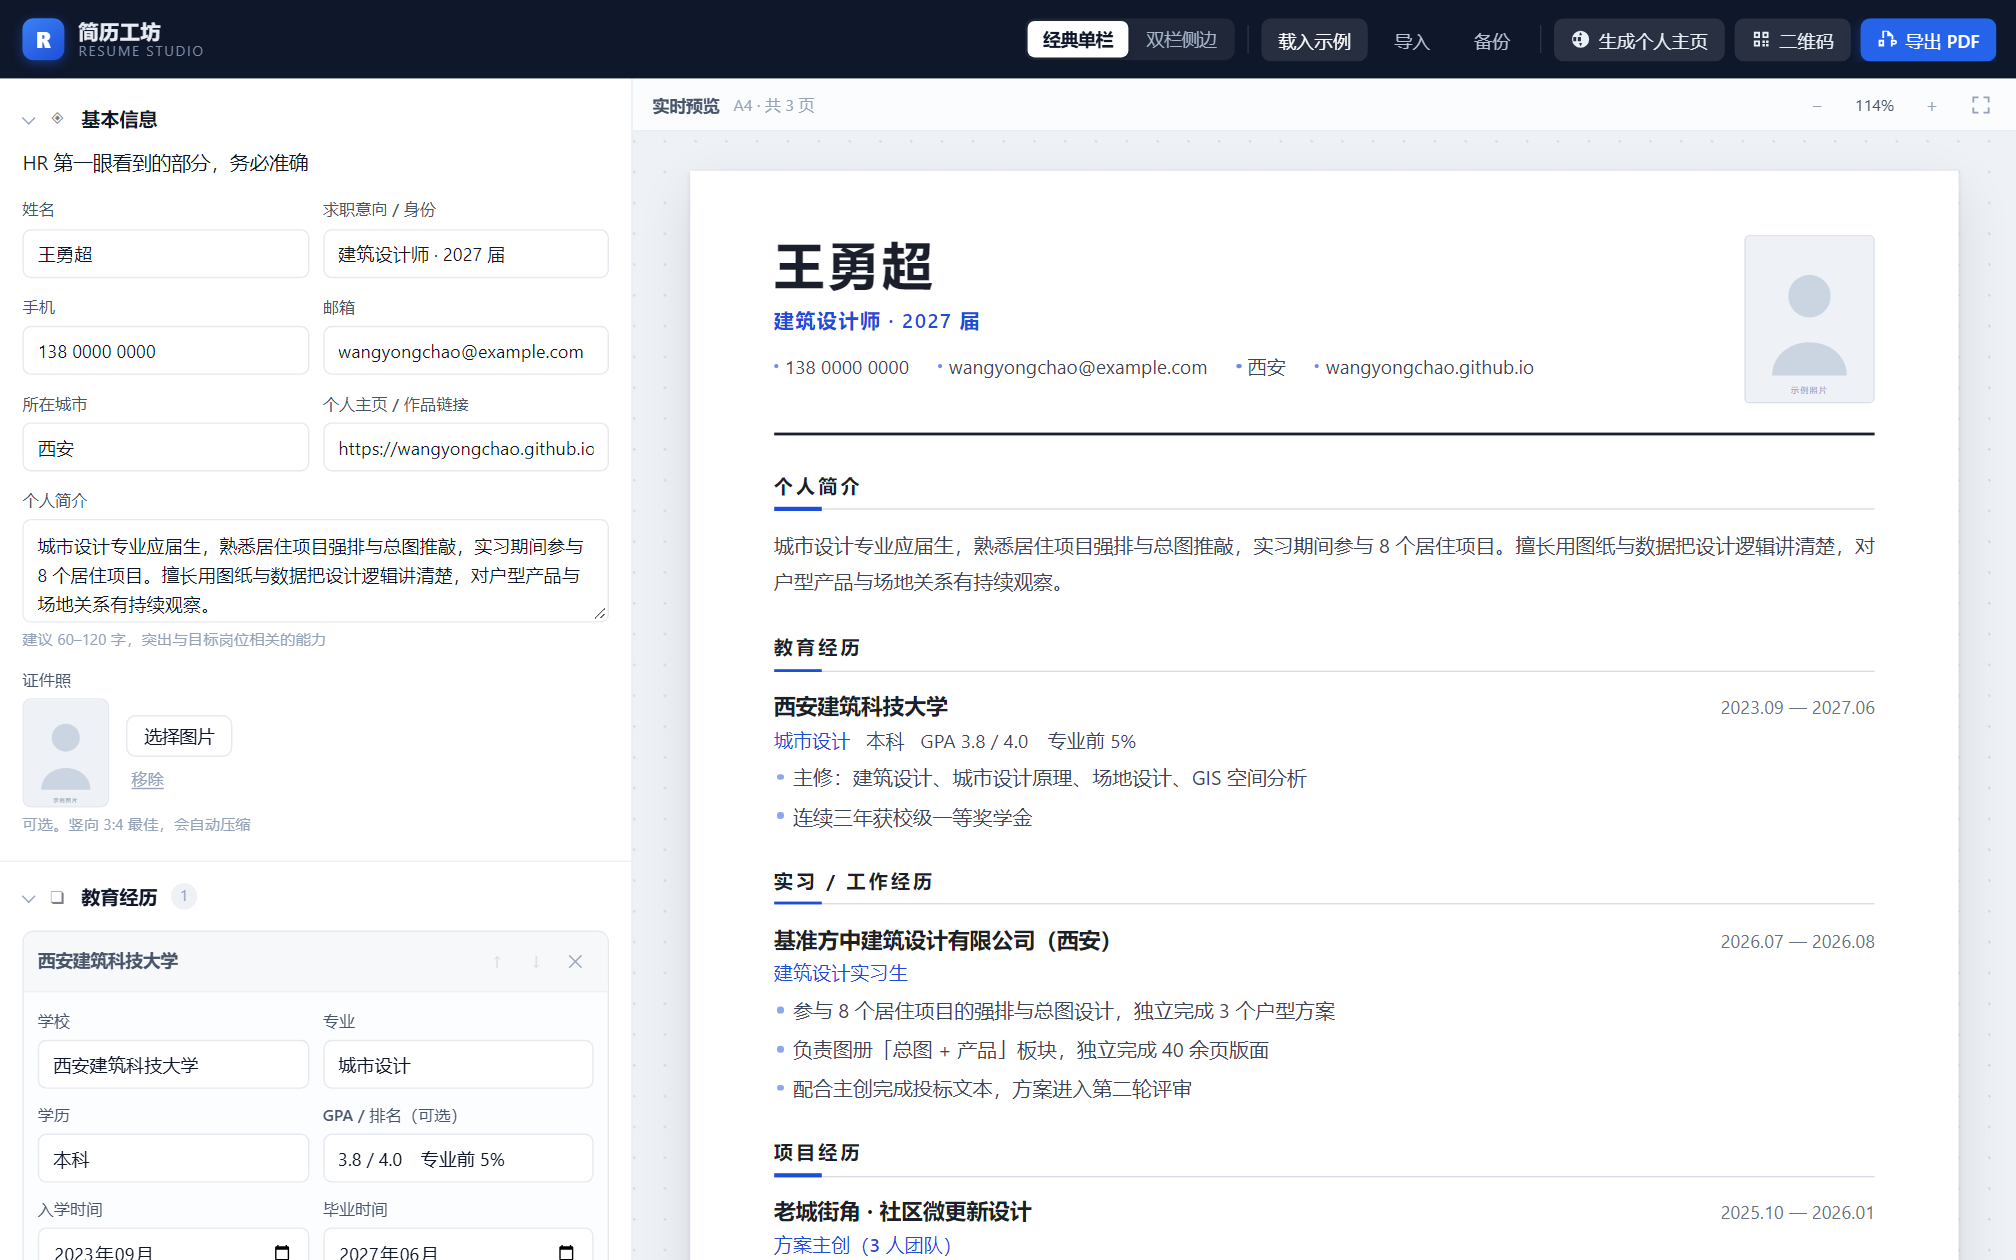
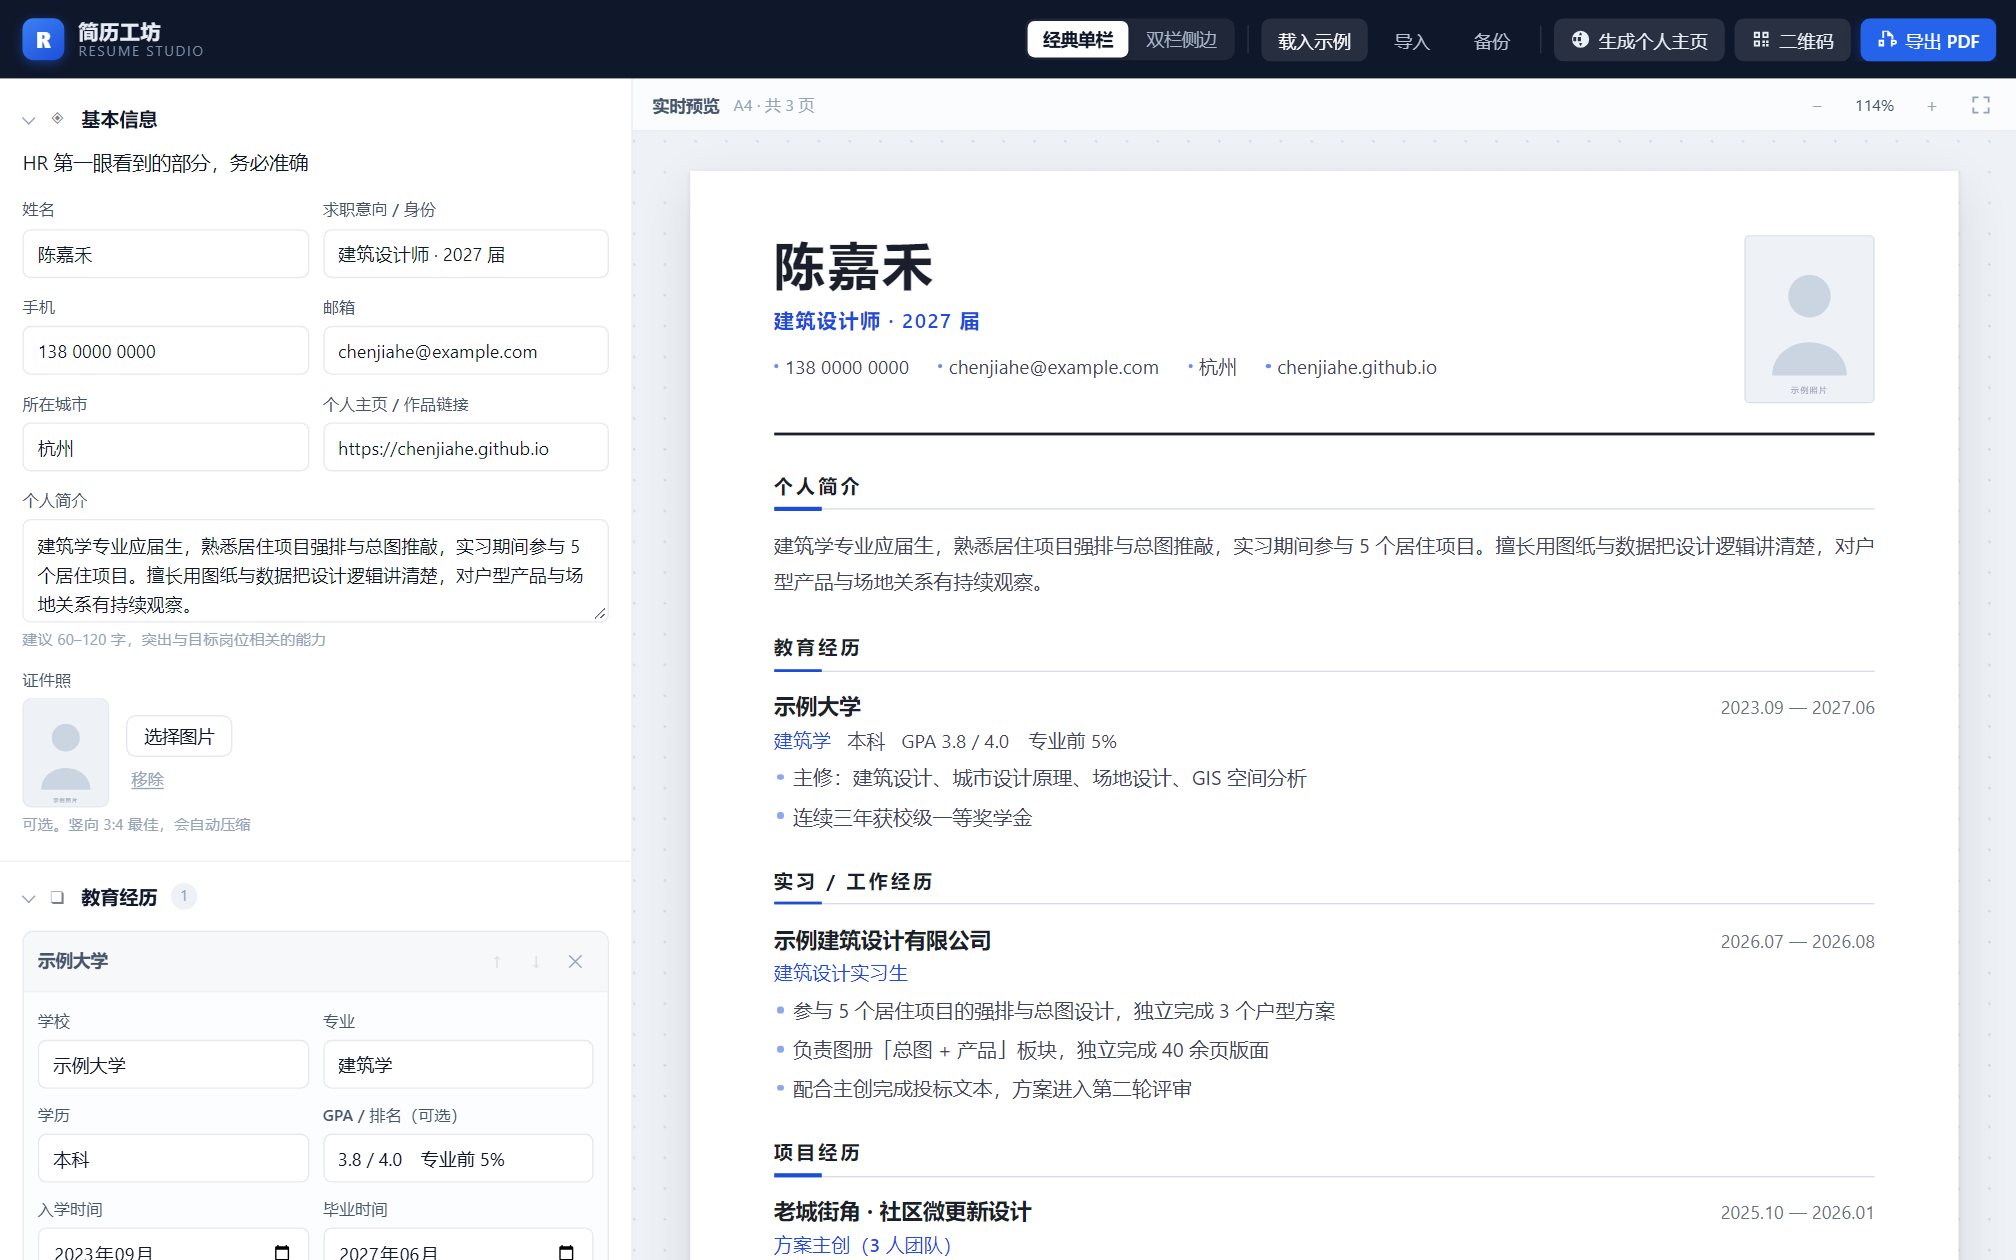
chore: 移除示例中的真实个人信息
- 表单占位文字改为中性示例（张三 / 城市名 / 学校全称 / 公司全称）
- 「载入示例」改为虚构人物：陈嘉禾、示例大学、示例建筑设计有限公司
- 作品名、奖项颁发单位同步脱敏，避免暴露真实经历与在职项目名
- LICENSE 版权署名改为 GitHub 账号
- 重新生成 README 预览图（docs/*.png）

diff --git a/assets/js/schema.js b/assets/js/schema.js
@@ -19,17 +19,17 @@
       title: '基本信息',
       desc: 'HR 第一眼看到的部分，务必准确',
       fields: [
-        { key: 'name', label: '姓名', type: 'text', ph: '王勇超', half: true },
-        { key: 'jobTitle', label: '求职意向 / 身份', type: 'text', ph: '建筑设计师 · 2027 届', half: true },
+        { key: 'name', label: '姓名', type: 'text', ph: '张三', half: true },
+        { key: 'jobTitle', label: '求职意向 / 身份', type: 'text', ph: '应聘岗位 · 2027 届', half: true },
         { key: 'phone', label: '手机', type: 'text', ph: '138 0000 0000', half: true },
         { key: 'email', label: '邮箱', type: 'text', ph: 'you@example.com', half: true },
-        { key: 'city', label: '所在城市', type: 'text', ph: '西安', half: true },
+        { key: 'city', label: '所在城市', type: 'text', ph: '城市名', half: true },
         { key: 'website', label: '个人主页 / 作品链接', type: 'text', ph: 'https://your-name.github.io', half: true },
         {
           key: 'summary',
           label: '个人简介',
           type: 'textarea',
-          ph: '一句话讲清你是谁、擅长什么、想做什么。例如：\n城市设计专业应届生，熟悉总图强排与户型推敲，参与 8 个居住项目，擅长用图纸讲清设计逻辑。',
+          ph: '一句话讲清你是谁、擅长什么、想做什么。例如：\nXX 专业应届生，做过 X 个项目，擅长用 X 解决 X 问题，成果是 X。',
           hint: '建议 60–120 字，突出与目标岗位相关的能力'
         },
         { key: 'photo', label: '证件照', type: 'photo', hint: '可选。竖向 3:4 最佳，会自动压缩' }
@@ -44,8 +44,8 @@
       itemLabel: it => it.school || '新的教育经历',
       itemSub: it => it.major,
       fields: [
-        { key: 'school', label: '学校', type: 'text', ph: '西安建筑科技大学', half: true },
-        { key: 'major', label: '专业', type: 'text', ph: '城市设计', half: true },
+        { key: 'school', label: '学校', type: 'text', ph: '学校全称', half: true },
+        { key: 'major', label: '专业', type: 'text', ph: '专业名称', half: true },
         { key: 'degree', label: '学历', type: 'text', ph: '本科', half: true },
         { key: 'gpa', label: 'GPA / 排名（可选）', type: 'text', ph: '3.8 / 4.0　专业前 5%', half: true },
         { key: 'start', label: '入学时间', type: 'month', half: true },
@@ -64,7 +64,7 @@
       itemLabel: it => it.company || '新的实习经历',
       itemSub: it => it.role,
       fields: [
-        { key: 'company', label: '公司 / 单位', type: 'text', ph: '基准方中建筑设计有限公司', half: true },
+        { key: 'company', label: '公司 / 单位', type: 'text', ph: '公司全称', half: true },
         { key: 'role', label: '岗位', type: 'text', ph: '建筑设计实习生', half: true },
         { key: 'start', label: '开始时间', type: 'month', half: true },
         { key: 'end', label: '结束时间', type: 'month', half: true },
@@ -73,7 +73,7 @@
           label: '工作内容与成果',
           type: 'textarea',
           tall: true,
-          ph: '每行一条，尽量写清「做了什么 + 做出什么结果」：\n参与 8 个居住项目的强排与总图，独立完成 3 个户型方案\n协助完成 XX 项目投标文本，方案中标',
+          ph: '每行一条，尽量写清「做了什么 + 做出什么结果」：\n负责 XX 模块，独立完成 XX 份交付物\n协助完成 XX 项目，成果是 XX',
           hint: '用数字说话：数量、排名、效率提升，比形容词有说服力'
         }
       ]
@@ -210,20 +210,20 @@
   function demo() {
     const d = blank();
     d.profile = {
-      name: '王勇超',
+      name: '陈嘉禾',
       jobTitle: '建筑设计师 · 2027 届',
       phone: '138 0000 0000',
-      email: 'wangyongchao@example.com',
-      city: '西安',
-      website: 'https://wangyongchao.github.io',
-      summary: '城市设计专业应届生，熟悉居住项目强排与总图推敲，实习期间参与 8 个居住项目。擅长用图纸与数据把设计逻辑讲清楚，对户型产品与场地关系有持续观察。',
+      email: 'chenjiahe@example.com',
+      city: '杭州',
+      website: 'https://chenjiahe.github.io',
+      summary: '建筑学专业应届生，熟悉居住项目强排与总图推敲，实习期间参与 5 个居住项目。擅长用图纸与数据把设计逻辑讲清楚，对户型产品与场地关系有持续观察。',
       photo: photoPh()
     };
 
     d.education = [{
       id: U.uid('edu'),
-      school: '西安建筑科技大学',
-      major: '城市设计',
+      school: '示例大学',
+      major: '建筑学',
       degree: '本科',
       gpa: '3.8 / 4.0　专业前 5%',
       start: '2023-09',
@@ -233,11 +233,11 @@
 
     d.experience = [{
       id: U.uid('exp'),
-      company: '基准方中建筑设计有限公司（西安）',
+      company: '示例建筑设计有限公司',
       role: '建筑设计实习生',
       start: '2026-07',
       end: '2026-08',
-      desc: '参与 8 个居住项目的强排与总图设计，独立完成 3 个户型方案\n负责图册「总图 + 产品」板块，独立完成 40 余页版面\n配合主创完成投标文本，方案进入第二轮评审'
+      desc: '参与 5 个居住项目的强排与总图设计，独立完成 3 个户型方案\n负责图册「总图 + 产品」板块，独立完成 40 余页版面\n配合主创完成投标文本，方案进入第二轮评审'
     }];
 
     d.projects = [{
@@ -266,19 +266,19 @@
 
     d.awards = [
       { id: U.uid('aw'), title: '全国大学生建筑设计竞赛 三等奖', date: '2025-11', issuer: '中国建筑学会', desc: '全国前 3%' },
-      { id: U.uid('aw'), title: '校级优秀学生干部', date: '2025-06', issuer: '西安建筑科技大学', desc: '' }
+      { id: U.uid('aw'), title: '校级优秀学生干部', date: '2025-06', issuer: '示例大学', desc: '' }
     ];
 
     d.works = [
       { id: U.uid('w'), title: '老城街角 · 微更新', category: '建筑设计', year: '2026', desc: '课程设计 · 主创', cover: ph('总平面与轴测', 'URBAN RENEWAL', '#0f766e', '#134e4a'), images: [ph('总平面与轴测', 'URBAN RENEWAL', '#0f766e', '#134e4a')] },
-      { id: U.uid('w'), title: '云璟 · 居住区规划', category: '居住规划', year: '2026', desc: '实习项目 · 强排', cover: ph('强排方案', 'RESIDENTIAL', '#1e40af', '#1e3a8a'), images: [ph('强排方案', 'RESIDENTIAL', '#1e40af', '#1e3a8a')] },
-      { id: U.uid('w'), title: '溪越里 · 图册版面', category: '平面版面', year: '2026', desc: '实习项目 · 图册', cover: ph('图册版面', 'EDITORIAL', '#9a3412', '#7c2d12'), images: [ph('图册版面', 'EDITORIAL', '#9a3412', '#7c2d12')] },
+      { id: U.uid('w'), title: '滨水 · 居住区规划', category: '居住规划', year: '2026', desc: '实习项目 · 强排', cover: ph('强排方案', 'RESIDENTIAL', '#1e40af', '#1e3a8a'), images: [ph('强排方案', 'RESIDENTIAL', '#1e40af', '#1e3a8a')] },
+      { id: U.uid('w'), title: '项目图册 · 版面设计', category: '平面版面', year: '2026', desc: '实习项目 · 图册', cover: ph('图册版面', 'EDITORIAL', '#9a3412', '#7c2d12'), images: [ph('图册版面', 'EDITORIAL', '#9a3412', '#7c2d12')] },
       { id: U.uid('w'), title: '山院 · 民宿改造', category: '室内设计', year: '2025', desc: '课程作业 · 独立完成', cover: ph('剖透视', 'INTERIOR', '#6d28d9', '#4c1d95'), images: [ph('剖透视', 'INTERIOR', '#6d28d9', '#4c1d95')] },
       { id: U.uid('w'), title: '城市肌理拼贴', category: '视觉实验', year: '2025', desc: '个人练习', cover: ph('拼贴实验', 'COLLAGE', '#be123c', '#881337'), images: [ph('拼贴实验', 'COLLAGE', '#be123c', '#881337')] },
       { id: U.uid('w'), title: '手绘 · 街巷速写', category: '手绘', year: '2024', desc: '日常记录', cover: ph('钢笔速写', 'SKETCH', '#475569', '#1e293b'), images: [ph('钢笔速写', 'SKETCH', '#475569', '#1e293b')] }
     ];
 
-    d.settings.siteTitle = '王勇超 · 作品集';
+    d.settings.siteTitle = '陈嘉禾 · 作品集';
     return d;
   }
 
